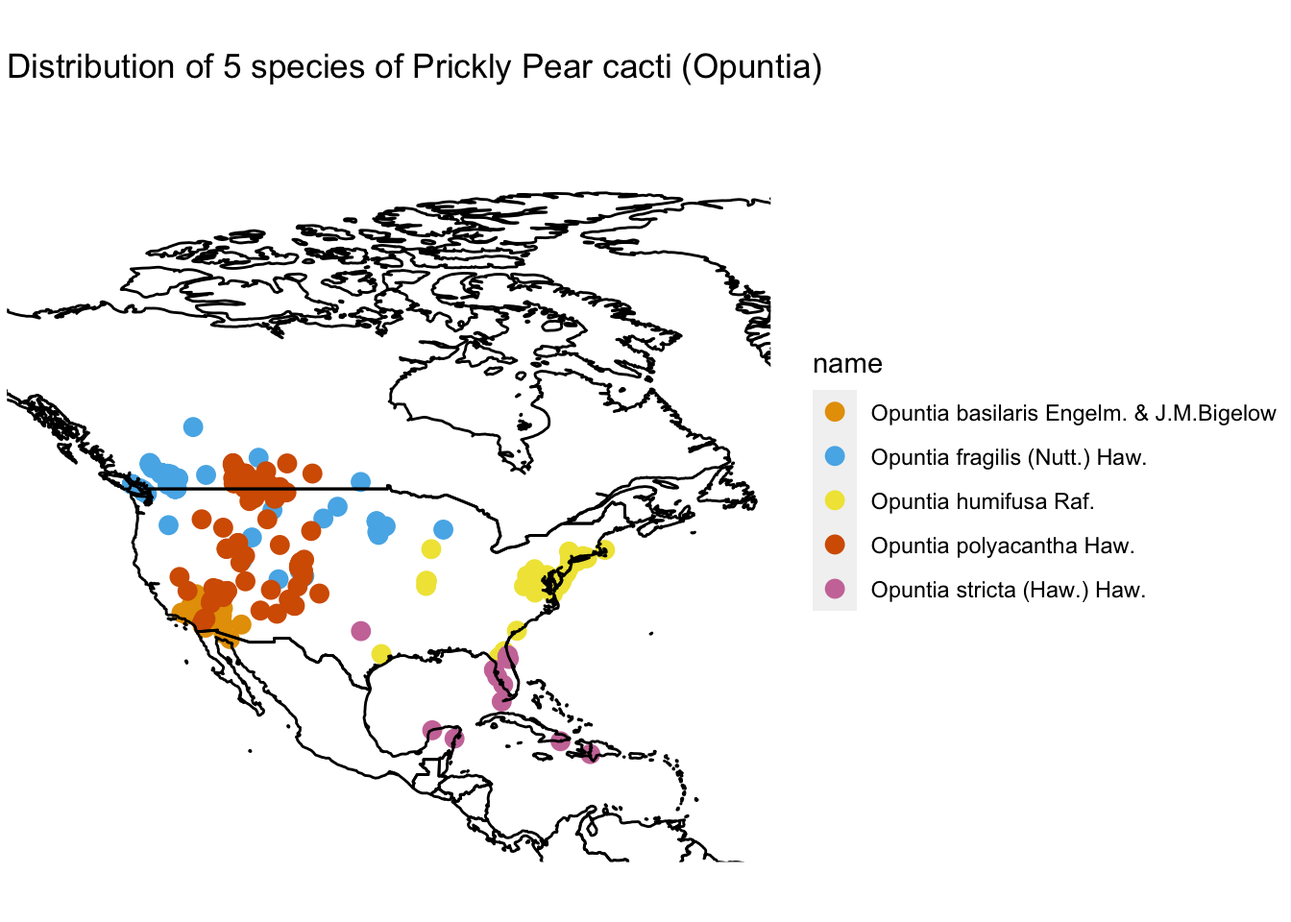
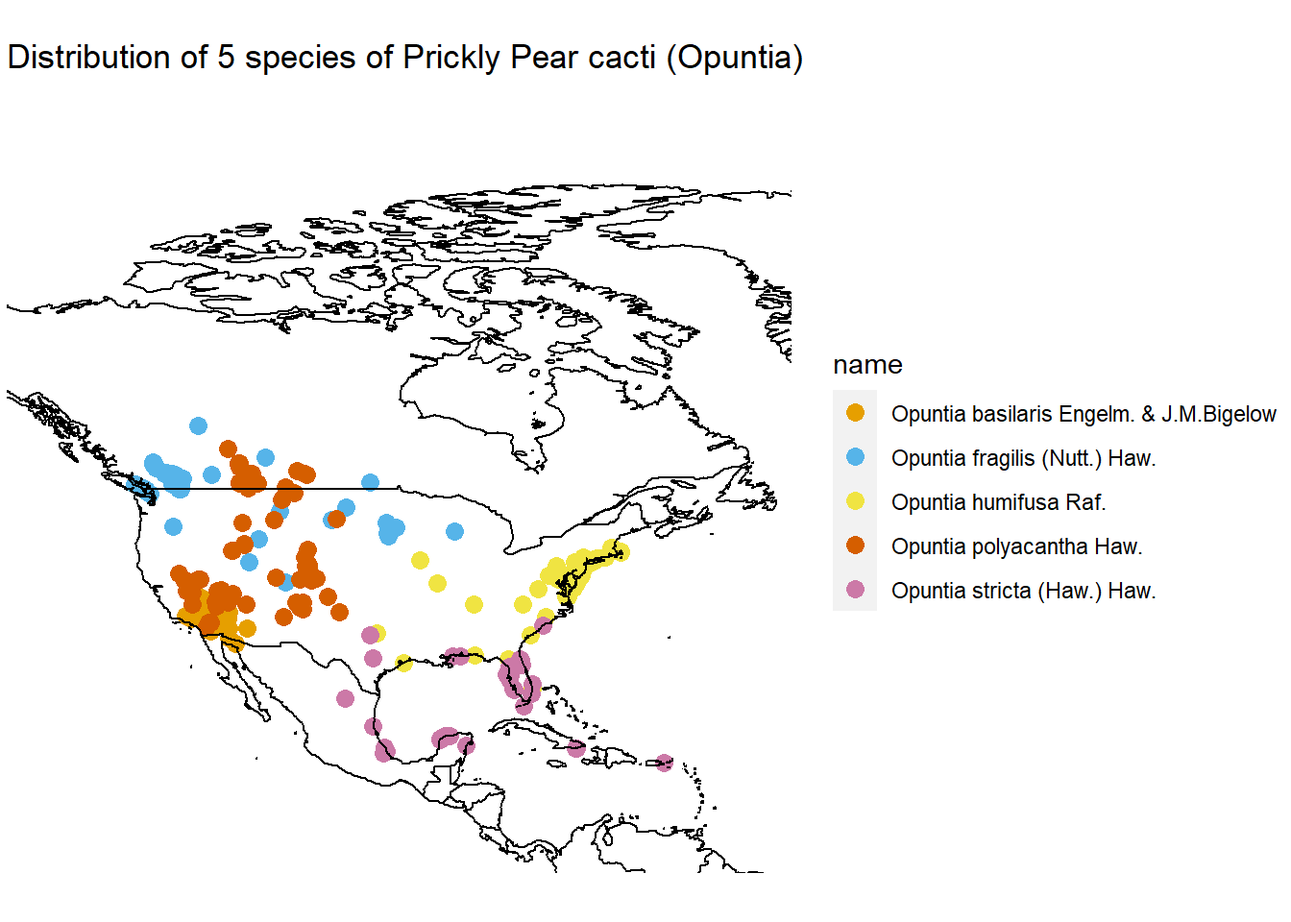
rerun opuntia code with polygon

diff --git a/docs/BIOL_324_Lab_7.html b/docs/BIOL_324_Lab_7.html
@@ -23,14 +23,13 @@
 <link href="site_libs/tocify-1.9.1/jquery.tocify.css" rel="stylesheet" />
 <script src="site_libs/tocify-1.9.1/jquery.tocify.js"></script>
 <script src="site_libs/navigation-1.1/tabsets.js"></script>
-<script src="site_libs/accessible-code-block-0.0.1/empty-anchor.js"></script>
 
 
 <style type="text/css">code{white-space: pre;}</style>
 <style type="text/css" data-origin="pandoc">
-code.sourceCode > span { display: inline-block; line-height: 1.25; }
-code.sourceCode > span { color: inherit; text-decoration: inherit; }
-code.sourceCode > span:empty { height: 1.2em; }
+a.sourceLine { display: inline-block; line-height: 1.25; }
+a.sourceLine { pointer-events: none; color: inherit; text-decoration: inherit; }
+a.sourceLine:empty { height: 1.2em; }
 .sourceCode { overflow: visible; }
 code.sourceCode { white-space: pre; position: relative; }
 div.sourceCode { margin: 1em 0; }
@@ -40,16 +39,14 @@ div.sourceCode { overflow: auto; }
 }
 @media print {
 code.sourceCode { white-space: pre-wrap; }
-code.sourceCode > span { text-indent: -5em; padding-left: 5em; }
+a.sourceLine { text-indent: -1em; padding-left: 1em; }
 }
-pre.numberSource code
-  { counter-reset: source-line 0; }
-pre.numberSource code > span
-  { position: relative; left: -4em; counter-increment: source-line; }
-pre.numberSource code > span > a:first-child::before
-  { content: counter(source-line);
+pre.numberSource a.sourceLine
+  { position: relative; left: -4em; }
+pre.numberSource a.sourceLine::before
+  { content: attr(title);
     position: relative; left: -1em; text-align: right; vertical-align: baseline;
-    border: none; display: inline-block;
+    border: none; pointer-events: all; display: inline-block;
     -webkit-touch-callout: none; -webkit-user-select: none;
     -khtml-user-select: none; -moz-user-select: none;
     -ms-user-select: none; user-select: none;
@@ -58,9 +55,9 @@ pre.numberSource code > span > a:first-child::before
   }
 pre.numberSource { margin-left: 3em; border-left: 1px solid #aaaaaa;  padding-left: 4px; }
 div.sourceCode
-  {  background-color: #f8f8f8; }
+  { background-color: #f8f8f8; }
 @media screen {
-code.sourceCode > span > a:first-child::before { text-decoration: underline; }
+a.sourceLine::before { text-decoration: underline; }
 }
 code span.al { color: #ef2929; } /* Alert */
 code span.an { color: #8f5902; font-weight: bold; font-style: italic; } /* Annotation */
@@ -845,36 +842,40 @@ div.tocify {
 <p><em>Opuntia stricta</em> (Gulf Coast and Caribbean)</p>
 <p><br></p>
 <p>First let’s install the required packages. If you have an older version of R, you may need to install them individually, e.g. by running <code>install.packages("mapr")</code> and then the next package, and so on. <strong>Once you have successfully installed packages, you typically don’t need to install them again. When running the code in the future, you can skip the <code>install.packages()</code> step and skip to loading your packages using the <code>library()</code> function.</strong></p>
-<div class="sourceCode" id="cb1"><pre class="sourceCode r"><code class="sourceCode r"><span id="cb1-1"><a href="#cb1-1"></a><span class="kw">install.packages</span>(<span class="st">&quot;mapr&quot;</span>)</span>
-<span id="cb1-2"><a href="#cb1-2"></a><span class="kw">install.packages</span>(<span class="st">&quot;spocc&quot;</span>)</span>
-<span id="cb1-3"><a href="#cb1-3"></a><span class="kw">install.packages</span>(<span class="st">&quot;taxize&quot;</span>)</span>
-<span id="cb1-4"><a href="#cb1-4"></a><span class="kw">install.packages</span>(<span class="st">&quot;tidyverse&quot;</span>)</span></code></pre></div>
+<div class="sourceCode" id="cb1"><pre class="sourceCode r"><code class="sourceCode r"><a class="sourceLine" id="cb1-1" title="1"><span class="kw">install.packages</span>(<span class="st">&quot;mapr&quot;</span>)</a>
+<a class="sourceLine" id="cb1-2" title="2"><span class="kw">install.packages</span>(<span class="st">&quot;spocc&quot;</span>)</a>
+<a class="sourceLine" id="cb1-3" title="3"><span class="kw">install.packages</span>(<span class="st">&quot;taxize&quot;</span>)</a>
+<a class="sourceLine" id="cb1-4" title="4"><span class="kw">install.packages</span>(<span class="st">&quot;tidyverse&quot;</span>)</a></code></pre></div>
 <p><br></p>
 <p>We’ll also install the development version of the package <code>rgbif</code>:</p>
-<div class="sourceCode" id="cb2"><pre class="sourceCode r"><code class="sourceCode r"><span id="cb2-1"><a href="#cb2-1"></a><span class="kw">install.packages</span>(<span class="st">&quot;rgbif&quot;</span>, <span class="dt">repos =</span> <span class="st">&quot;https://dev.ropensci.org&quot;</span>)</span></code></pre></div>
+<div class="sourceCode" id="cb2"><pre class="sourceCode r"><code class="sourceCode r"><a class="sourceLine" id="cb2-1" title="1"><span class="kw">install.packages</span>(<span class="st">&quot;rgbif&quot;</span>, <span class="dt">repos =</span> <span class="st">&quot;https://dev.ropensci.org&quot;</span>)</a></code></pre></div>
 <p><br></p>
 <p>These packages are designed for connecting with the GBIF database (<code>rgbif</code>, <code>spocc</code>, <code>taxize</code>), organizing data (<code>tidyverse</code>), and mapping (<code>mapr</code>). Once installed, use the <code>library()</code> function to attach the packages:</p>
-<div class="sourceCode" id="cb3"><pre class="sourceCode r"><code class="sourceCode r"><span id="cb3-1"><a href="#cb3-1"></a><span class="kw">library</span>(mapr)</span>
-<span id="cb3-2"><a href="#cb3-2"></a><span class="kw">library</span>(spocc)</span>
-<span id="cb3-3"><a href="#cb3-3"></a><span class="kw">library</span>(taxize)</span>
-<span id="cb3-4"><a href="#cb3-4"></a><span class="kw">library</span>(tidyverse)</span>
-<span id="cb3-5"><a href="#cb3-5"></a><span class="kw">library</span>(rgbif)</span></code></pre></div>
+<div class="sourceCode" id="cb3"><pre class="sourceCode r"><code class="sourceCode r"><a class="sourceLine" id="cb3-1" title="1"><span class="kw">library</span>(mapr)</a>
+<a class="sourceLine" id="cb3-2" title="2"><span class="kw">library</span>(spocc)</a>
+<a class="sourceLine" id="cb3-3" title="3"><span class="kw">library</span>(taxize)</a>
+<a class="sourceLine" id="cb3-4" title="4"><span class="kw">library</span>(tidyverse)</a>
+<a class="sourceLine" id="cb3-5" title="5"><span class="kw">library</span>(rgbif)</a></code></pre></div>
 <p><br></p>
 <p>Now let’s get some occurrence data from GBIF!</p>
-<div class="sourceCode" id="cb4"><pre class="sourceCode r"><code class="sourceCode r"><span id="cb4-1"><a href="#cb4-1"></a>opuntia_wishlist &lt;-</span>
-<span id="cb4-2"><a href="#cb4-2"></a><span class="st">  </span><span class="kw">c</span>(<span class="st">&quot;Opuntia basilaris Engelm. &amp; J.M.Bigelow&quot;</span>,</span>
-<span id="cb4-3"><a href="#cb4-3"></a>    <span class="st">&quot;Opuntia fragilis (Nutt.) Haw.&quot;</span>,</span>
-<span id="cb4-4"><a href="#cb4-4"></a>    <span class="st">&quot;Opuntia humifusa Raf.&quot;</span>,</span>
-<span id="cb4-5"><a href="#cb4-5"></a>    <span class="st">&quot;Opuntia polyacantha Haw.&quot;</span>,</span>
-<span id="cb4-6"><a href="#cb4-6"></a>    <span class="st">&quot;Opuntia stricta (Haw.) Haw.&quot;</span>)</span></code></pre></div>
+<div class="sourceCode" id="cb4"><pre class="sourceCode r"><code class="sourceCode r"><a class="sourceLine" id="cb4-1" title="1">opuntia_wishlist &lt;-</a>
+<a class="sourceLine" id="cb4-2" title="2"><span class="st">  </span><span class="kw">c</span>(<span class="st">&quot;Opuntia basilaris Engelm. &amp; J.M.Bigelow&quot;</span>,</a>
+<a class="sourceLine" id="cb4-3" title="3">    <span class="st">&quot;Opuntia fragilis (Nutt.) Haw.&quot;</span>,</a>
+<a class="sourceLine" id="cb4-4" title="4">    <span class="st">&quot;Opuntia humifusa Raf.&quot;</span>,</a>
+<a class="sourceLine" id="cb4-5" title="5">    <span class="st">&quot;Opuntia polyacantha Haw.&quot;</span>,</a>
+<a class="sourceLine" id="cb4-6" title="6">    <span class="st">&quot;Opuntia stricta (Haw.) Haw.&quot;</span>)</a></code></pre></div>
 <p><br></p>
-<p>In this first step we’re creating a list of all of the plant species that we’re hoping to get GBIF data for. The <code>&lt;-</code> operator stores the results in an object that we named <code>opuntia_wishlist</code>. By storing the results in an object we can later return to the object and inspect it, subset it, and pipe it to other functions. In the following step we’ll use the <code>occ()</code> function to search GBIF for the species records:</p>
-<div class="sourceCode" id="cb5"><pre class="sourceCode r"><code class="sourceCode r"><span id="cb5-1"><a href="#cb5-1"></a>opuntia_metadata &lt;-<span class="st"> </span></span>
-<span id="cb5-2"><a href="#cb5-2"></a><span class="st">  </span>spocc<span class="op">::</span><span class="kw">occ</span>(<span class="dt">query =</span> opuntia_wishlist, <span class="dt">from =</span> <span class="st">&#39;gbif&#39;</span>, <span class="dt">limit =</span> <span class="dv">500</span>)</span></code></pre></div>
+<p>In this first step we’re creating a list of all of the plant species that we’re hoping to get GBIF data for. The <code>&lt;-</code> operator stores the results in an object that we named <code>opuntia_wishlist</code>. By storing the results in an object we can later return to the object and inspect it, subset it, and pipe it to other functions. In the following step we’ll use the <code>occ()</code> function to search GBIF for the species records. The <code>geometry =</code> option allows us to tell GBIF that we only want data from within a certain region. In this case, we’ve drawn a polygon encompassing North America:</p>
+<div class="sourceCode" id="cb5"><pre class="sourceCode r"><code class="sourceCode r"><a class="sourceLine" id="cb5-1" title="1">opuntia_metadata &lt;-<span class="st"> </span></a>
+<a class="sourceLine" id="cb5-2" title="2"><span class="st">  </span><span class="kw">occ</span>(</a>
+<a class="sourceLine" id="cb5-3" title="3">    <span class="dt">query =</span> opuntia_wishlist, </a>
+<a class="sourceLine" id="cb5-4" title="4">    <span class="dt">from =</span> <span class="st">&#39;gbif&#39;</span>, </a>
+<a class="sourceLine" id="cb5-5" title="5">    <span class="dt">limit =</span> <span class="dv">500</span>, </a>
+<a class="sourceLine" id="cb5-6" title="6">    <span class="dt">geometry =</span> <span class="st">&#39;POLYGON((-48.4 11.0, -172.9 13.6, -170.8 72.6, -46.4 71.8, -48.4 11.0))&#39;</span>)</a></code></pre></div>
 <p><strong>PAUSE AFTER RUNNING THIS CHUNK OF CODE. This <code>occ()</code> function takes some time, as it is downloading 500 occurrences for each of the 5 species in the list, and running more code while it is working may interrupt the download and cause the later steps to fail! You will know it has completed once <code>opuntia_metadata</code> shows up in your environment pane.</strong></p>
 <p><br></p>
 <p>In this code we’ve created a new object called <code>opuntia_metadata</code>. This object contains occurrence records found by the <code>occ()</code> function, where we specified our taxon ID (contained in <code>opuntia_ids</code>) and told the function that we wanted our data <code>from = gbif</code> (instead of another database) and that we wanted a maximum of <code>500</code> records. Let’s inspect the structure of the <code>opuntia_metadata</code> object:</p>
-<div class="sourceCode" id="cb6"><pre class="sourceCode r"><code class="sourceCode r"><span id="cb6-1"><a href="#cb6-1"></a><span class="kw">str</span>(opuntia_metadata, <span class="dt">max.level=</span><span class="dv">1</span>)</span></code></pre></div>
+<div class="sourceCode" id="cb6"><pre class="sourceCode r"><code class="sourceCode r"><a class="sourceLine" id="cb6-1" title="1"><span class="kw">str</span>(opuntia_metadata, <span class="dt">max.level=</span><span class="dv">1</span>)</a></code></pre></div>
 <pre><code>## List of 9
 ##  $ gbif     :List of 2
 ##   ..- attr(*, &quot;class&quot;)= chr &quot;occdatind&quot;
@@ -898,25 +899,25 @@ div.tocify {
 ##  - attr(*, &quot;searched&quot;)= chr &quot;gbif&quot;</code></pre>
 <p><br></p>
 <p>The output tells us that <code>opuntia_metadata</code> is a <code>List</code> object with 9 named elements. We are specifically interested in the named element <code>$gbif</code>, so we can simplify our object by subsetting:</p>
-<div class="sourceCode" id="cb8"><pre class="sourceCode r"><code class="sourceCode r"><span id="cb8-1"><a href="#cb8-1"></a>opuntia_simple &lt;-<span class="st"> </span>opuntia_metadata<span class="op">$</span>gbif<span class="op">$</span>data</span></code></pre></div>
+<div class="sourceCode" id="cb8"><pre class="sourceCode r"><code class="sourceCode r"><a class="sourceLine" id="cb8-1" title="1">opuntia_simple &lt;-<span class="st"> </span>opuntia_metadata<span class="op">$</span>gbif<span class="op">$</span>data</a></code></pre></div>
 <p><br></p>
 <p>While writing this code, we discovered that the <code>opuntia_metadata</code> object is pretty complex and with lots of layers! The code above says to take the large object <code>opuntia_metadata</code> and select the element named <code>$gbif</code>. Then, within the element <code>$gbif</code>, select the sub-element <code>$data</code>. Within <code>$data</code> there are 5 elements, each one contains the lat-long information for one of our <em>Opuntia</em> species.</p>
 <p>Let’s look at the lat-long data for <em>O. basilaris</em>:</p>
-<div class="sourceCode" id="cb9"><pre class="sourceCode r"><code class="sourceCode r"><span id="cb9-1"><a href="#cb9-1"></a>opuntia_simple<span class="op">$</span><span class="st">`</span><span class="dt">Opuntia_basilaris_Engelm._&amp;_J.M.Bigelow</span><span class="st">`</span></span></code></pre></div>
+<div class="sourceCode" id="cb9"><pre class="sourceCode r"><code class="sourceCode r"><a class="sourceLine" id="cb9-1" title="1">opuntia_simple<span class="op">$</span><span class="st">`</span><span class="dt">Opuntia_basilaris_Engelm._&amp;_J.M.Bigelow</span><span class="st">`</span></a></code></pre></div>
 <pre><code>## # A tibble: 500 x 73
 ##    name  longitude latitude issues prov  key   scientificName datasetKey
 ##    &lt;chr&gt;     &lt;dbl&gt;    &lt;dbl&gt; &lt;chr&gt;  &lt;chr&gt; &lt;chr&gt; &lt;chr&gt;          &lt;chr&gt;     
-##  1 Opun…     -117.     36.9 cdrou… gbif  2549… Opuntia basil… 50c9509d-…
-##  2 Opun…     -116.     34.1 cdrou… gbif  2550… Opuntia basil… 50c9509d-…
-##  3 Opun…     -117.     36.9 cdrou… gbif  2550… Opuntia basil… 50c9509d-…
-##  4 Opun…     -114.     32.2 cdrou… gbif  2550… Opuntia basil… 50c9509d-…
-##  5 Opun…     -117.     36.9 cdrou… gbif  2550… Opuntia basil… 50c9509d-…
-##  6 Opun…     -116.     33.7 cdrou… gbif  2550… Opuntia basil… 50c9509d-…
-##  7 Opun…     -116.     33.7 cdrou… gbif  2550… Opuntia basil… 50c9509d-…
-##  8 Opun…     -117.     36.9 cdrou… gbif  2550… Opuntia basil… 50c9509d-…
-##  9 Opun…     -116.     33.8 cdrou… gbif  2550… Opuntia basil… 50c9509d-…
-## 10 Opun…     -116.     33.8 cdrou… gbif  2557… Opuntia basil… 50c9509d-…
-## # … with 490 more rows, and 65 more variables: publishingOrgKey &lt;chr&gt;,
+##  1 Opun~     -117.     36.9 cdrou~ gbif  2549~ Opuntia basil~ 50c9509d-~
+##  2 Opun~     -116.     34.1 cdrou~ gbif  2550~ Opuntia basil~ 50c9509d-~
+##  3 Opun~     -117.     36.9 cdrou~ gbif  2550~ Opuntia basil~ 50c9509d-~
+##  4 Opun~     -114.     32.2 cdrou~ gbif  2550~ Opuntia basil~ 50c9509d-~
+##  5 Opun~     -117.     36.9 cdrou~ gbif  2550~ Opuntia basil~ 50c9509d-~
+##  6 Opun~     -116.     33.7 cdrou~ gbif  2550~ Opuntia basil~ 50c9509d-~
+##  7 Opun~     -116.     33.7 cdrou~ gbif  2550~ Opuntia basil~ 50c9509d-~
+##  8 Opun~     -117.     36.9 cdrou~ gbif  2550~ Opuntia basil~ 50c9509d-~
+##  9 Opun~     -116.     33.8 cdrou~ gbif  2550~ Opuntia basil~ 50c9509d-~
+## 10 Opun~     -116.     33.8 cdrou~ gbif  2557~ Opuntia basil~ 50c9509d-~
+## # ... with 490 more rows, and 65 more variables: publishingOrgKey &lt;chr&gt;,
 ## #   installationKey &lt;chr&gt;, publishingCountry &lt;chr&gt;, protocol &lt;chr&gt;,
 ## #   lastCrawled &lt;chr&gt;, lastParsed &lt;chr&gt;, crawlId &lt;int&gt;, basisOfRecord &lt;chr&gt;,
 ## #   occurrenceStatus &lt;chr&gt;, taxonKey &lt;int&gt;, kingdomKey &lt;int&gt;, phylumKey &lt;int&gt;,
@@ -939,14 +940,14 @@ div.tocify {
 ## #   informationWithheld &lt;chr&gt;</code></pre>
 <p><br></p>
 <p>The output is pretty big and messy! The output tells us that it’s a <code>tibble</code> (a type of spreadsheet) with 500 rows and 73 columns. Each row is a record of where <em>Opuntia basilaris</em> has been found or collected. Each column is some information associated with that record. While some of the columns are useful (e.g. the latitude and longitude), most columns aren’t needed (we’ll get rid of them later). In the next step, we’ll combine the five separate <code>tibbles</code> into one:</p>
-<div class="sourceCode" id="cb11"><pre class="sourceCode r"><code class="sourceCode r"><span id="cb11-1"><a href="#cb11-1"></a>useful_variables &lt;-<span class="st"> </span><span class="kw">c</span>(<span class="st">&quot;name&quot;</span>, <span class="st">&quot;longitude&quot;</span>, <span class="st">&quot;latitude&quot;</span>, <span class="st">&quot;basisOfRecord&quot;</span>, <span class="st">&quot;scientificName&quot;</span>)</span>
-<span id="cb11-2"><a href="#cb11-2"></a></span>
-<span id="cb11-3"><a href="#cb11-3"></a>opuntia_combined &lt;-</span>
-<span id="cb11-4"><a href="#cb11-4"></a><span class="st">  </span><span class="kw">reduce</span>(opuntia_simple, full_join, <span class="dt">by =</span> useful_variables) <span class="op">%&gt;%</span><span class="st"> </span></span>
-<span id="cb11-5"><a href="#cb11-5"></a><span class="st">  </span><span class="kw">select</span>(useful_variables)</span></code></pre></div>
+<div class="sourceCode" id="cb11"><pre class="sourceCode r"><code class="sourceCode r"><a class="sourceLine" id="cb11-1" title="1">useful_variables &lt;-<span class="st"> </span><span class="kw">c</span>(<span class="st">&quot;name&quot;</span>, <span class="st">&quot;longitude&quot;</span>, <span class="st">&quot;latitude&quot;</span>, <span class="st">&quot;basisOfRecord&quot;</span>, <span class="st">&quot;scientificName&quot;</span>)</a>
+<a class="sourceLine" id="cb11-2" title="2"></a>
+<a class="sourceLine" id="cb11-3" title="3">opuntia_combined &lt;-</a>
+<a class="sourceLine" id="cb11-4" title="4"><span class="st">  </span><span class="kw">reduce</span>(opuntia_simple, full_join, <span class="dt">by =</span> useful_variables) <span class="op">%&gt;%</span><span class="st"> </span></a>
+<a class="sourceLine" id="cb11-5" title="5"><span class="st">  </span><span class="kw">select</span>(useful_variables)</a></code></pre></div>
 <p><br></p>
 <p>Above, we created an object <code>useful_variables</code> that has the names of the columns we want in our final dataset. In the next step we used <code>reduce()</code> to create one simple, combined dataset with only the columns specified in <code>useful_variables</code>. Everything else was discarded. Whew! This is a lot of organizing.. we’re almost there. Before we get to mapping, we should check our data for synonyms. The <code>unique()</code> function tells us how many unique entries exist within a column:</p>
-<div class="sourceCode" id="cb12"><pre class="sourceCode r"><code class="sourceCode r"><span id="cb12-1"><a href="#cb12-1"></a><span class="kw">unique</span>(opuntia_combined<span class="op">$</span>scientificName)</span></code></pre></div>
+<div class="sourceCode" id="cb12"><pre class="sourceCode r"><code class="sourceCode r"><a class="sourceLine" id="cb12-1" title="1"><span class="kw">unique</span>(opuntia_combined<span class="op">$</span>scientificName)</a></code></pre></div>
 <pre><code>##  [1] &quot;Opuntia basilaris Engelm. &amp; J.M.Bigelow&quot;                              
 ##  [2] &quot;Opuntia basilaris var. basilaris&quot;                                     
 ##  [3] &quot;Opuntia basilaris var. brachyclada Munz&quot;                              
@@ -965,31 +966,33 @@ div.tocify {
 ## [16] &quot;Opuntia polyacantha var. juniperina (Britton &amp; Rose) L.D.Benson&quot;      
 ## [17] &quot;Opuntia dillenii (Ker Gawl.) Haw.&quot;                                    
 ## [18] &quot;Opuntia stricta (Haw.) Haw.&quot;                                          
-## [19] &quot;Opuntia stricta subsp. stricta&quot;                                       
-## [20] &quot;Opuntia tunoidea Gibbes&quot;                                              
-## [21] &quot;Opuntia bentonii Griffiths&quot;                                           
-## [22] &quot;Opuntia anahuacensis Griffiths&quot;</code></pre>
+## [19] &quot;Opuntia tunoidea Gibbes&quot;                                              
+## [20] &quot;Opuntia bentonii Griffiths&quot;                                           
+## [21] &quot;Opuntia anahuacensis Griffiths&quot;                                       
+## [22] &quot;Opuntia stricta subsp. esparzae Scheinvar&quot;                            
+## [23] &quot;Opuntia stricta var. dillenii L.D.Benson&quot;                             
+## [24] &quot;Opuntia stricta subsp. stricta&quot;</code></pre>
 <p><br></p>
 <p>Unfortunately, lots of synonyms were included in the results. We’ll make a object containing the names we want to keep, and use the <code>filter()</code> function to get rid of everything else:</p>
-<div class="sourceCode" id="cb14"><pre class="sourceCode r"><code class="sourceCode r"><span id="cb14-1"><a href="#cb14-1"></a><span class="co"># filter out synonyms</span></span>
-<span id="cb14-2"><a href="#cb14-2"></a><span class="co"># filter out entries outside of North America</span></span>
-<span id="cb14-3"><a href="#cb14-3"></a>opuntia_fil &lt;-</span>
-<span id="cb14-4"><a href="#cb14-4"></a><span class="st">  </span>opuntia_combined <span class="op">%&gt;%</span></span>
-<span id="cb14-5"><a href="#cb14-5"></a><span class="st">  </span><span class="kw">filter</span>(scientificName <span class="op">==</span><span class="st"> </span>opuntia_wishlist) <span class="op">%&gt;%</span></span>
-<span id="cb14-6"><a href="#cb14-6"></a><span class="st">  </span><span class="kw">filter</span>(longitude <span class="op">&lt;</span><span class="st"> </span><span class="dv">-58</span> <span class="op">&amp;</span><span class="st"> </span>latitude <span class="op">&gt;</span><span class="st"> </span><span class="fl">18.1</span>) <span class="op">%&gt;%</span></span>
-<span id="cb14-7"><a href="#cb14-7"></a><span class="st">  </span><span class="kw">filter</span>(basisOfRecord <span class="op">==</span><span class="st"> &quot;HUMAN_OBSERVATION&quot;</span>)</span></code></pre></div>
+<div class="sourceCode" id="cb14"><pre class="sourceCode r"><code class="sourceCode r"><a class="sourceLine" id="cb14-1" title="1"><span class="co"># filter out synonyms</span></a>
+<a class="sourceLine" id="cb14-2" title="2"><span class="co"># filter out entries outside of North America</span></a>
+<a class="sourceLine" id="cb14-3" title="3">opuntia_fil &lt;-</a>
+<a class="sourceLine" id="cb14-4" title="4"><span class="st">  </span>opuntia_combined <span class="op">%&gt;%</span></a>
+<a class="sourceLine" id="cb14-5" title="5"><span class="st">  </span><span class="kw">filter</span>(scientificName <span class="op">==</span><span class="st"> </span>opuntia_wishlist) <span class="op">%&gt;%</span></a>
+<a class="sourceLine" id="cb14-6" title="6"><span class="st">  </span><span class="kw">filter</span>(longitude <span class="op">&lt;</span><span class="st"> </span><span class="dv">-58</span> <span class="op">&amp;</span><span class="st"> </span>latitude <span class="op">&gt;</span><span class="st"> </span><span class="fl">18.1</span>) <span class="op">%&gt;%</span></a>
+<a class="sourceLine" id="cb14-7" title="7"><span class="st">  </span><span class="kw">filter</span>(basisOfRecord <span class="op">==</span><span class="st"> &quot;HUMAN_OBSERVATION&quot;</span>)</a></code></pre></div>
 <p><br></p>
 <p>We’re ready to map! Pick some colours for your species (you can pick your own <a href="http://www.cookbook-r.com/Graphs/Colors_(ggplot2)/">from here</a>):</p>
-<div class="sourceCode" id="cb15"><pre class="sourceCode r"><code class="sourceCode r"><span id="cb15-1"><a href="#cb15-1"></a>mycolors &lt;-<span class="st"> </span><span class="kw">c</span>( <span class="st">&quot;#E69F00&quot;</span>, <span class="st">&quot;#56B4E9&quot;</span>,  <span class="st">&quot;#F0E442&quot;</span>, <span class="st">&quot;#D55E00&quot;</span>, <span class="st">&quot;#CC79A7&quot;</span>)</span></code></pre></div>
+<div class="sourceCode" id="cb15"><pre class="sourceCode r"><code class="sourceCode r"><a class="sourceLine" id="cb15-1" title="1">mycolors &lt;-<span class="st"> </span><span class="kw">c</span>( <span class="st">&quot;#E69F00&quot;</span>, <span class="st">&quot;#56B4E9&quot;</span>,  <span class="st">&quot;#F0E442&quot;</span>, <span class="st">&quot;#D55E00&quot;</span>, <span class="st">&quot;#CC79A7&quot;</span>)</a></code></pre></div>
 <p><br></p>
 <p>And map using the <code>map_ggplot()</code> function:</p>
-<div class="sourceCode" id="cb16"><pre class="sourceCode r"><code class="sourceCode r"><span id="cb16-1"><a href="#cb16-1"></a>mapr<span class="op">::</span><span class="kw">map_ggplot</span>(opuntia_fil[,<span class="dv">1</span><span class="op">:</span><span class="dv">3</span>], <span class="dt">color =</span> mycolors) <span class="op">+</span></span>
-<span id="cb16-2"><a href="#cb16-2"></a><span class="st">  </span><span class="kw">coord_fixed</span>(<span class="dt">xlim =</span> <span class="kw">c</span>(<span class="op">-</span><span class="dv">135</span>, <span class="dv">-55</span> ),  <span class="dt">ylim =</span> <span class="kw">c</span>(<span class="dv">10</span>, <span class="dv">90</span>)) <span class="op">+</span></span>
-<span id="cb16-3"><a href="#cb16-3"></a><span class="st">  </span><span class="kw">ggtitle</span>(<span class="st">&quot;Distribution of 5 species of Prickly Pear cacti (Opuntia)&quot;</span>)</span></code></pre></div>
+<div class="sourceCode" id="cb16"><pre class="sourceCode r"><code class="sourceCode r"><a class="sourceLine" id="cb16-1" title="1">mapr<span class="op">::</span><span class="kw">map_ggplot</span>(opuntia_fil[,<span class="dv">1</span><span class="op">:</span><span class="dv">3</span>], <span class="dt">color =</span> mycolors) <span class="op">+</span></a>
+<a class="sourceLine" id="cb16-2" title="2"><span class="st">  </span><span class="kw">coord_fixed</span>(<span class="dt">xlim =</span> <span class="kw">c</span>(<span class="op">-</span><span class="dv">135</span>, <span class="dv">-55</span> ),  <span class="dt">ylim =</span> <span class="kw">c</span>(<span class="dv">10</span>, <span class="dv">90</span>)) <span class="op">+</span></a>
+<a class="sourceLine" id="cb16-3" title="3"><span class="st">  </span><span class="kw">ggtitle</span>(<span class="st">&quot;Distribution of 5 species of Prickly Pear cacti (Opuntia)&quot;</span>)</a></code></pre></div>
 <p><img src="BIOL_324_Lab_7_files/figure-html/unnamed-chunk-13-1.png" width="672" /></p>
 <p><br></p>
 <p>Beauty! After all of that hard work, we’ll save the lat-long data object as an .rds file. We’ll use this data again in Lab 10. <strong>You should edit the filepath below to save the file to a directory of your choosing (somewhere you will remember so that you can load the data later). <code>'~/Downloads/filtered_gbif_dataset.rds'</code> will save it to your Downloads folder if you are using a mac, but you will need to alter this code if you are on PC or would like to save it to a different location on your computer.</strong></p>
-<div class="sourceCode" id="cb17"><pre class="sourceCode r"><code class="sourceCode r"><span id="cb17-1"><a href="#cb17-1"></a><span class="kw">saveRDS</span>(opuntia_fil, <span class="dt">file =</span> <span class="st">&#39;~/Downloads/filtered_gbif_dataset.rds&#39;</span>)</span></code></pre></div>
+<div class="sourceCode" id="cb17"><pre class="sourceCode r"><code class="sourceCode r"><a class="sourceLine" id="cb17-1" title="1"><span class="kw">saveRDS</span>(opuntia_fil, <span class="dt">file =</span> <span class="st">&#39;~/Downloads/filtered_gbif_dataset.rds&#39;</span>)</a></code></pre></div>
 <p><br></p>
 <hr />
 <p>   </p>

diff --git a/docs/_BIOL_324_Lab_10.html b/docs/_BIOL_324_Lab_10.html
@@ -552,7 +552,8 @@ div.tocify {
 <a class="sourceLine" id="cb2-4" title="4"><span class="kw">library</span>(phytools)</a>
 <a class="sourceLine" id="cb2-5" title="5"><span class="kw">library</span>(tidyverse)</a>
 <a class="sourceLine" id="cb2-6" title="6"><span class="kw">library</span>(viridis)</a></code></pre></div>
-<p>Let’s import our species distribution data (from GBIF, Assignment 2) and phylogenetic tree (Assignment 4). When you import your own <em>rbcL</em> and GBIF data for your iNaturalist species, we recommend using <code>file.choose()</code> (see Lab 8).</p>
+<p>Let’s import our species distribution data (from GBIF, Lab 7) and phylogenetic tree (Assignment 4). If you haven’t already, we recommend re-creating your GBIF dataset using the option <code>geometry =</code> within <code>occ()</code> (see revised Lab 7). Don’t forget to save your GBIF data as an .rds file using <code>saveRDS()</code>!</p>
+<p>When you’re ready to import your own <em>rbcL</em> and GBIF data for your iNaturalist species, we recommend using <code>file.choose()</code> inside of <code>readRDS()</code> (see Lab 8).</p>
 <div class="sourceCode" id="cb3"><pre class="sourceCode r"><code class="sourceCode r"><a class="sourceLine" id="cb3-1" title="1"><span class="co"># import Opuntia rbcL tree from last tutorial</span></a>
 <a class="sourceLine" id="cb3-2" title="2">rbcL_rooted &lt;-<span class="st"> </span><span class="kw">readRDS</span>(<span class="dt">file =</span> <span class="kw">here</span>(<span class="st">&#39;R_scripts/rbcL_rooted.rds&#39;</span>))</a>
 <a class="sourceLine" id="cb3-3" title="3"></a>
